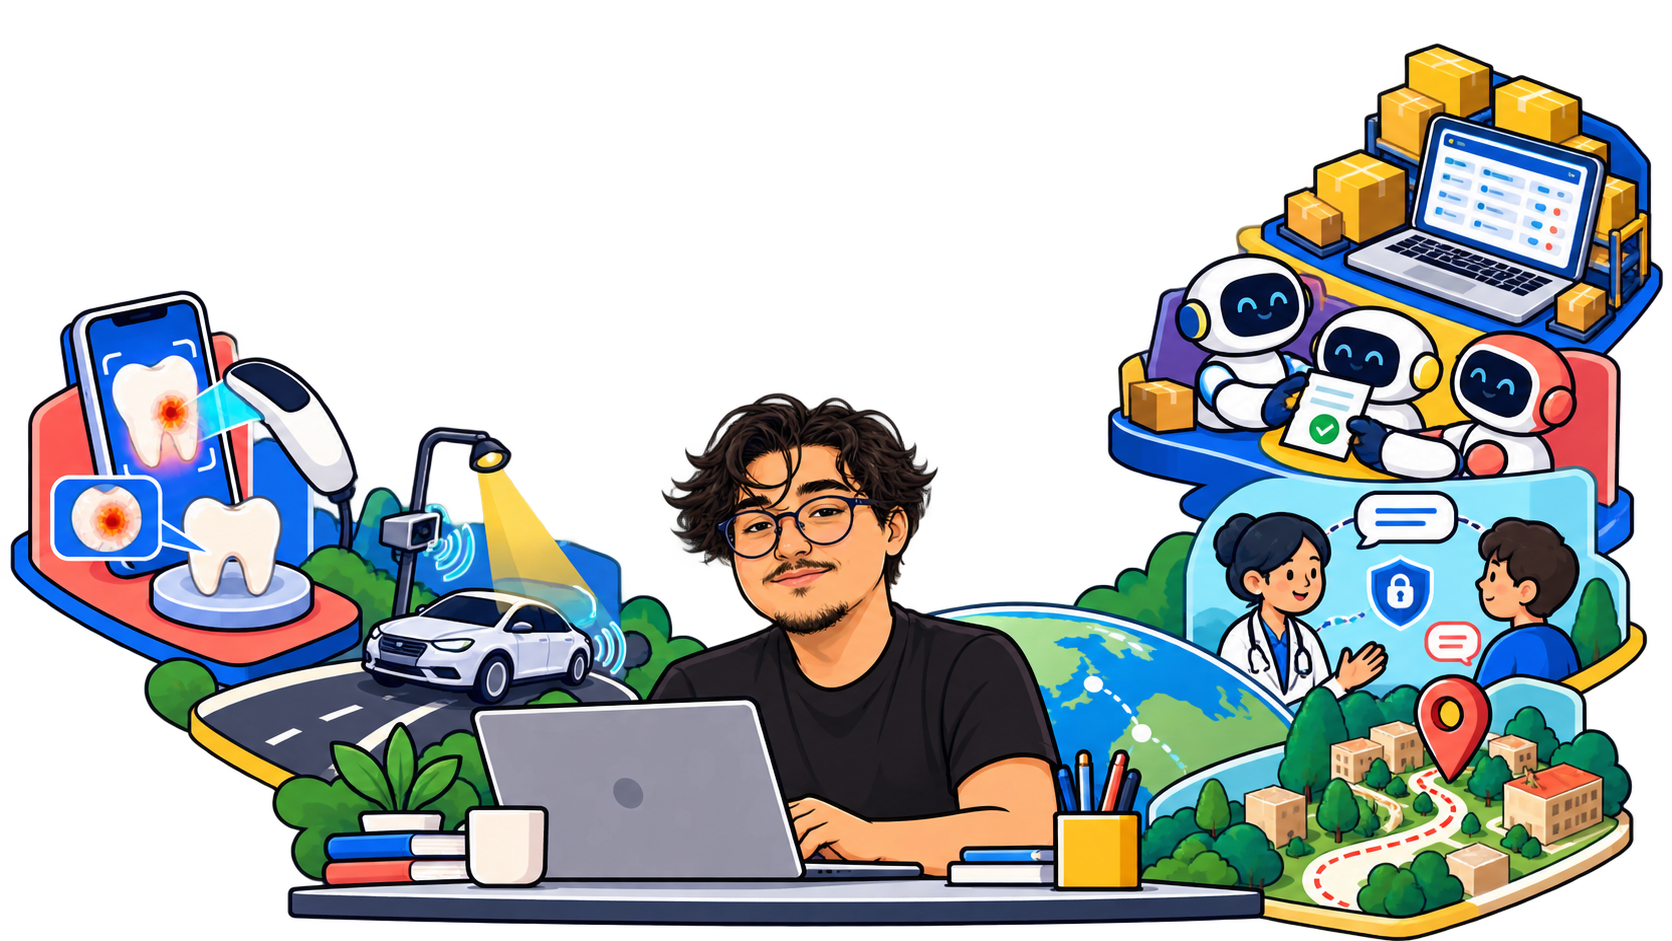
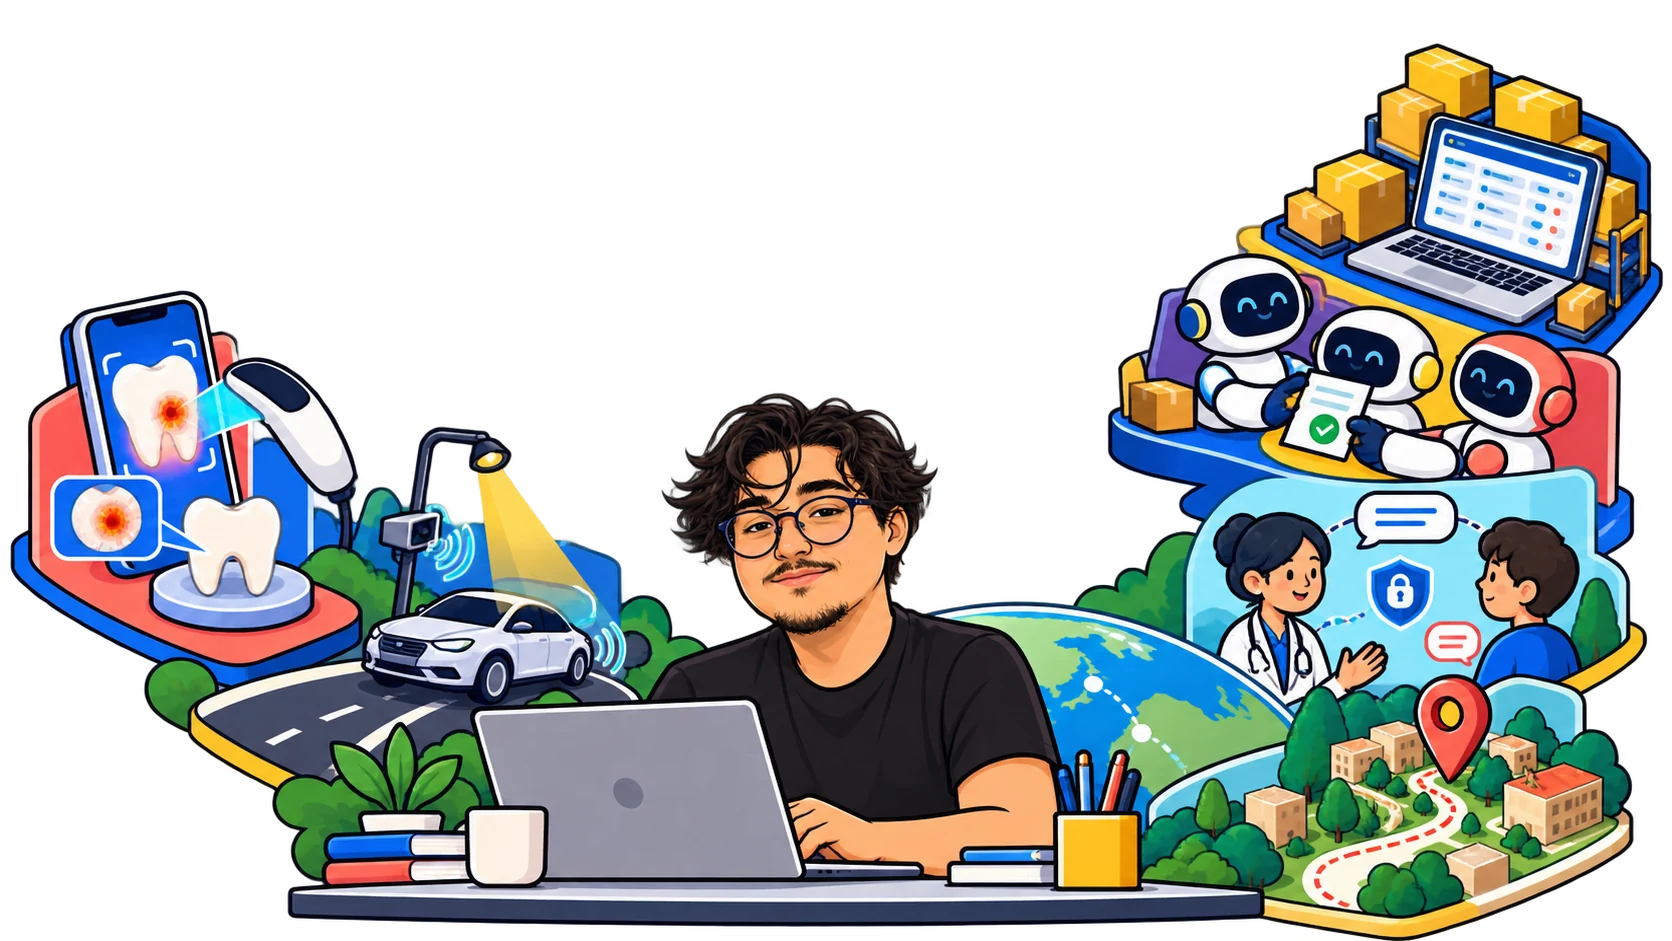
Görsellerin indirme boyutu azaltıldı

diff --git a/index.html b/index.html
@@ -47,7 +47,7 @@
           <span data-i18n="heroLine2">into products</span>
           <span data-i18n="heroLine3">people can use.</span>
         </h1>
-        <img class="hero-world" src="./assets/storybook-hero-v6.webp" width="1672" height="941" decoding="async" fetchpriority="high" alt="An illustrated pop-up world showing Emre and his six applied AI and software projects" />
+        <img class="hero-world" src="./assets/storybook-hero-v6.webp?v=19" width="1672" height="941" decoding="async" fetchpriority="high" alt="An illustrated pop-up world showing Emre and his six applied AI and software projects" />
         <div class="hero-note">
           <b data-i18n="heroBuilt">06 PROJECTS BUILT</b>
           <p data-i18n="heroNote">From medical imaging to multi-agent tools, I enjoy turning ambitious ideas into software people can actually try, test and use.</p>
@@ -71,7 +71,7 @@
           </dl>
         </div>
         <figure class="about-portrait">
-          <img src="./assets/emre-kucukgocer.webp" width="1254" height="1254" loading="lazy" decoding="async" alt="Portrait of Emre Küçükgöçer" />
+          <img src="./assets/emre-kucukgocer.webp?v=19" width="1254" height="1254" loading="lazy" decoding="async" alt="Portrait of Emre Küçükgöçer" />
           <figcaption data-i18n="portraitCaption">EMRE KÜÇÜKGÖÇER / APPLIED AI &amp; SOFTWARE</figcaption>
         </figure>
         <div class="proof-ribbon" aria-label="Selected achievements">
@@ -99,7 +99,7 @@
         <p class="scene-kicker" data-i18n="experienceKicker">Experience / learning by doing</p>
         <h2 id="experience-title" data-i18n-html="experienceTitle">Learning by<br />doing the work.</h2>
         <p class="experience-intro" data-i18n="experienceIntro">Internships and hands-on projects have shown me how AI and software decisions play out in real teams, real products and real deadlines.</p>
-        <img class="journey-world" src="./assets/storybook-journey-v6.webp" width="1672" height="941" loading="lazy" decoding="async" alt="An illustrated panorama of Emre's medical AI, retrieval, software engineering and analytics experience" />
+        <img class="journey-world" src="./assets/storybook-journey-v6.webp?v=19" width="1672" height="941" loading="lazy" decoding="async" alt="An illustrated panorama of Emre's medical AI, retrieval, software engineering and analytics experience" />
         <div class="experience-tabs" id="experience-tabs" role="tablist" aria-label="Experience entries"></div>
         <article class="experience-detail" id="experience-detail" aria-live="polite"></article>
         <div class="education-signs">
